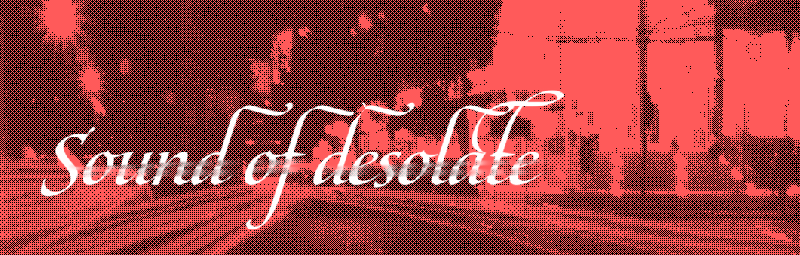
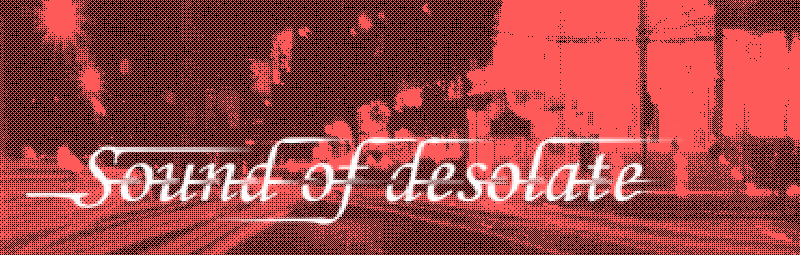
sound of desolate

Changed region(s): [[0.0312, 0.3569, 0.8438, 0.9059]]

diff --git a/soundofdesolate.html b/soundofdesolate.html
@@ -18,18 +18,11 @@
     <div class="container">
         <main>
         <p><a href="index.html">&lt;&lt;- back to antarai.net</a></p>
-            <p>Solid Core หรือ โซลิดคอร์เป็นวง metalcore จากเชียงใหม่ ก่อตั้งในปี 2006 เซ็นสัญญากับค่าย Day One Records และยัง active อยู่ Solid Core ได้ปล่อยผลงานออกมา 2 ผลงาน คือ มินิอัลบั้ม โหย (2006) และ EP ไม่มีสิ่งใดที่มันแน่นอน (2022)</p>
-            <p>คำโปรยบน dayone-records.com จาก archive.org</p>
-            <blockquote>
-                ทั้ง 4 รวมตัวกันเมื่อต้นปี 2006 โดย จาตุรนต์ และ ยุทธพงศ์ ซึ่งต่อมาทั้งสองได้พบกับ สันติภาพ โดยบังเอิญสมัยที่เรียนมัธยมและต่อมาได้พบกับอวิรุทธิ์ ซึ่งทำให้กลายมาเป็น SolidCorE ในที่สุด...
-เพียงแค่ 20 ปี บนโลกใบนี้ พวกเขาก็เกิดความรู้สึกกับสิ่งที่ต้องเผชิญ...ไม่ว่าจะเป็นสังคม..
-ความรัก..ความผิดหวัง..ความโหยหา..ความฟุ้งซ่าน ที่แสดงภาพลบของคนออกมาให้เห็น...
-ในเวลาที่ผ่านไป...ยังเป็นภาพที่แสดงถึงจิตใจของมนุษย์ในด้านมืด...ที่สร้างความอึดอัดและปัญหา..
-Solid CorE สะท้อนความรู้สึกด้านลึกของจิตใจกับสิ่งเหล่านั้น ผ่านสิ่งที่พวกเขาชอบ
-...ผ่านดนตรีเมทัล ที่พวกเขาคิดว่าเป็นทางเดียว และชัดเจนและตอบสนองพวกเขาได้...
+            <p>Sound of Desolate เป็นวง emo ก่อตั้งในปี 2005 เซ็นสัญญากับค่าย Banana Records และยัง active อยู่ ได้ปล่อยผลงานออกมา 2 ผลงาน คือ อัลบั้ม Waiting for Last Love at the Horizon / รอรักสุดท้ายที่ปลายฟ้า (2005) และ อัลบั้ม โศกนาฏกรรมของคำว่าจบ (2018)</p>
+            <p>วงอันเป็นที่รักของชาวอีโม AKA. เจ้าของเว็บ</p>
             </blockquote>
             <img src="img/soundofdesolate/group01.jpg">
-        <div class="members-box">
+        <!-- <div class="members-box">
             <h2>members</h2> 
             <div>
                 <img src="img/solidcore/jaturont.png" class="member-img">
@@ -62,13 +55,11 @@ Solid CorE สะท้อนความรู้สึกด้านลึก
                     <b>position</b>: drummer
                 </p>
             </div>
-        </div>
-                    <details>
-                <summary>คำโปรยบน myspace.com/solidcore2006 จาก archive.org</summary>
-                <blockquote>
-                ‘Solid Core’ was informally born in 2006 from the pressure of advanced media interaction, fast changing society, uncertain love and so on around human beings facing in everyday life. Most of the pressure causes problems and brings us gradually down to the pessimistic point of view towards the environment. However, human being’s mind is the controller. It is believed that only the tense of our mind can be released and expressed out with the hard and tough music. Metal music reflects our emotion. It can tell what is going on in our heart from the genius metal music players. Heavy with time to time sweet mixing rhythm represents the uniqueness of the genuine metal music taste. Four members of the ‘Solid Core’ band share the fun of hard metal music, the dream of rockers. ‘Gift’, the original establisher and guitar player of the band, with ‘Aof’, the dead buddy and base player ready to die for metal music have shaked hands to create their own metal band. They asked ‘Bas’, buddy music player from ‘Opportunity’ band to jam the dammed metal music. Fortunately, ‘Solid Core’ has become stronger and stronger since it has ‘Thug’, from the same high school, to empower the band with his metal voice. And later, ‘Aey’ discovered to be good at metal drum joined the band. To big brother "Gu" of Gu Club Underground in Chiangmai, Solid Core has proposed themselves as a new metal band and a part of metal groups help release anyone from tense emotion Here is the debut EP.from us. Check it out on Oct10,2007                
-                </blockquote>
-            </details>
+        </div> -->
+        <div class="favorite-songs">
+            <h2>favorite songs</h2>
+            <iframe width="560" height="315" src="https://www.youtube.com/embed/sd34Nn6Hdl8?si=GK0EsT1Jkjp3AREO" title="YouTube video player" frameborder="0" allow="accelerometer; autoplay; clipboard-write; encrypted-media; gyroscope; picture-in-picture; web-share" referrerpolicy="strict-origin-when-cross-origin" allowfullscreen></iframe>
+        </div> 
         </main>
     </div>
     <footer>

diff --git a/styles.css b/styles.css
@@ -13,6 +13,7 @@
   --main: #052;
   --background: beige;
   --secondary: #693;
+  --background-image: "read";
 }
 
 html {
@@ -29,6 +30,11 @@ body {
     font-size: 130%;
     line-height: 0.8;
     overflow-x: none;
+    background-image: var(--background-image);
+    background-repeat: no-repeat;
+    background-position: center bottom;
+    background-attachment: scroll;
+    background-size: 100% auto;
 }
 
 .wrapper {
@@ -176,14 +182,7 @@ a:hover {
   --background: #ceedec;
   --background-rgb: 206, 237, 236;
   --secondary: #5381be;
-}
-
-.solidcore {
-  background-image: url(img/solidcore/background.png);
-  background-repeat: no-repeat;
-  background-position: center bottom;
-  background-attachment: scroll;
-  background-size: 100% auto;
+  --background-image: url("img/solidcore/background.png");
 }
 
 .solidcore main img {
@@ -195,10 +194,11 @@ a:hover {
   --background: #ed9898;
   --background-rgb: 237, 152, 152;
   --secondary: #a13828;
+  --background-image: url("img/soundofdesolate/background.png");
 }
 
 .soundofdesolate main img {
-  filter: hue-rotate(-30deg) brightness(200%) grayscale(30%);
+  filter: hue-rotate(-30deg) brightness(80%) saturate(30%);
 }
 
 @media (max-width: 600px) {

diff --git a/index.html b/index.html
@@ -34,9 +34,9 @@
                 <li><a href="rosesfall.html">Roses Fall</a></li>
                 <li><a href="sleepingsheep.html">Sleeping Sheep</a></li> -->
                 <li><a href="solidcore.html">Solid Core</a></li>
-                <!-- <li><a href="solitudeisbliss.html">Solitude Is Bliss</a></li>
+                <!-- <li><a href="solitudeisbliss.html">Solitude Is Bliss</a></li> -->
                 <li><a href="soundofdesolate.html">Sound of Desolate</a></li>
-                <li><a href="suddenfacedown.html">Sudden Face Down</a></li>
+       <!--         <li><a href="suddenfacedown.html">Sudden Face Down</a></li>
                 <li><a href="sweetmullet.html">Sweet Mullet</a></li>
                 <li><a href="ugoslabier.html">Ugoslabier</a></li>
                 <li><a href="chaikasan.html">ชาย กะ สัน</a></li> -->
